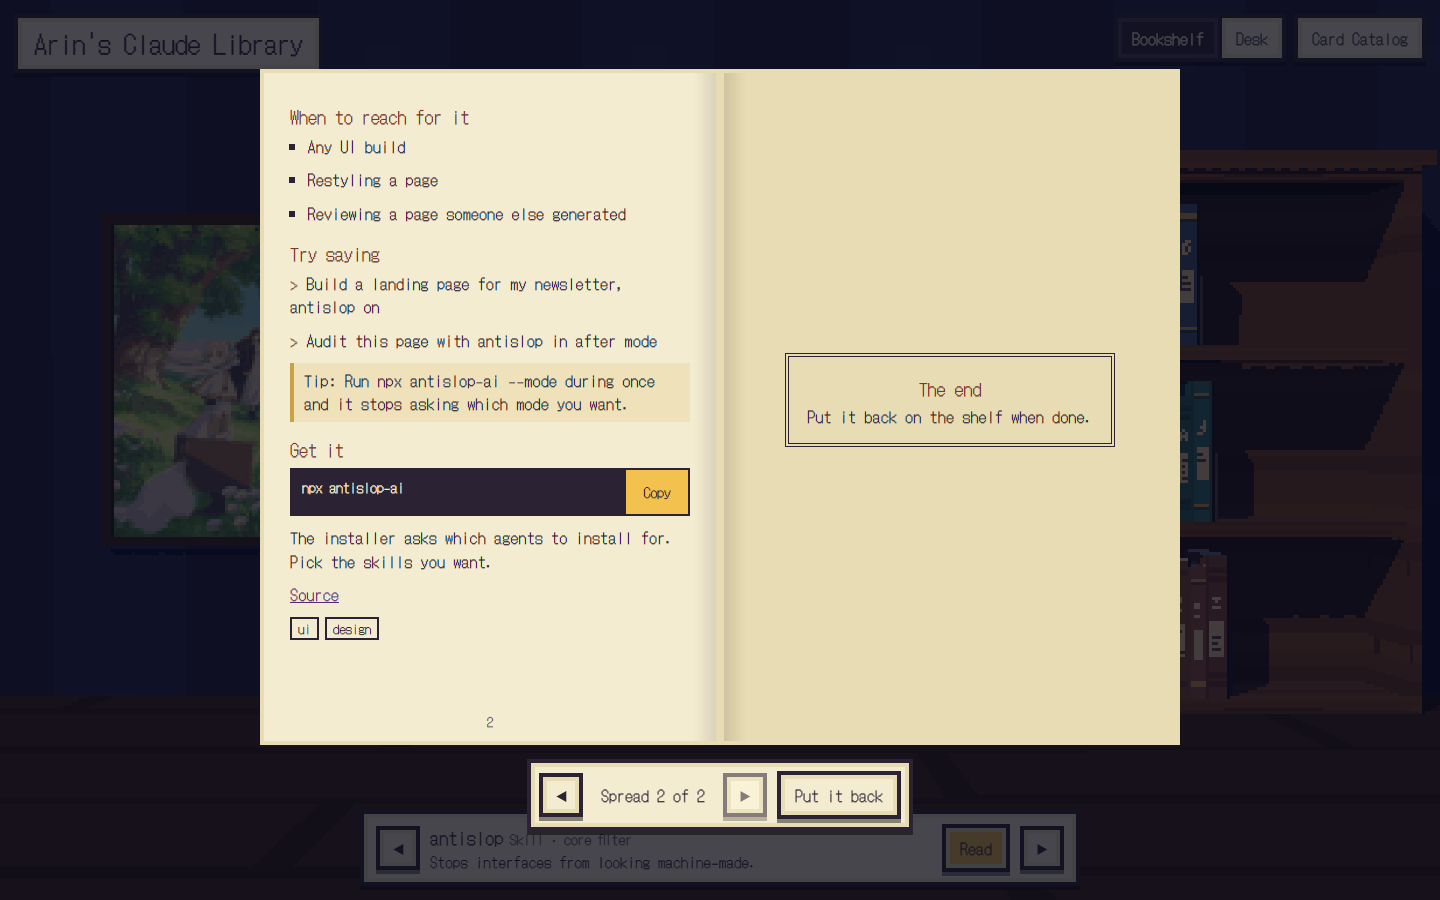
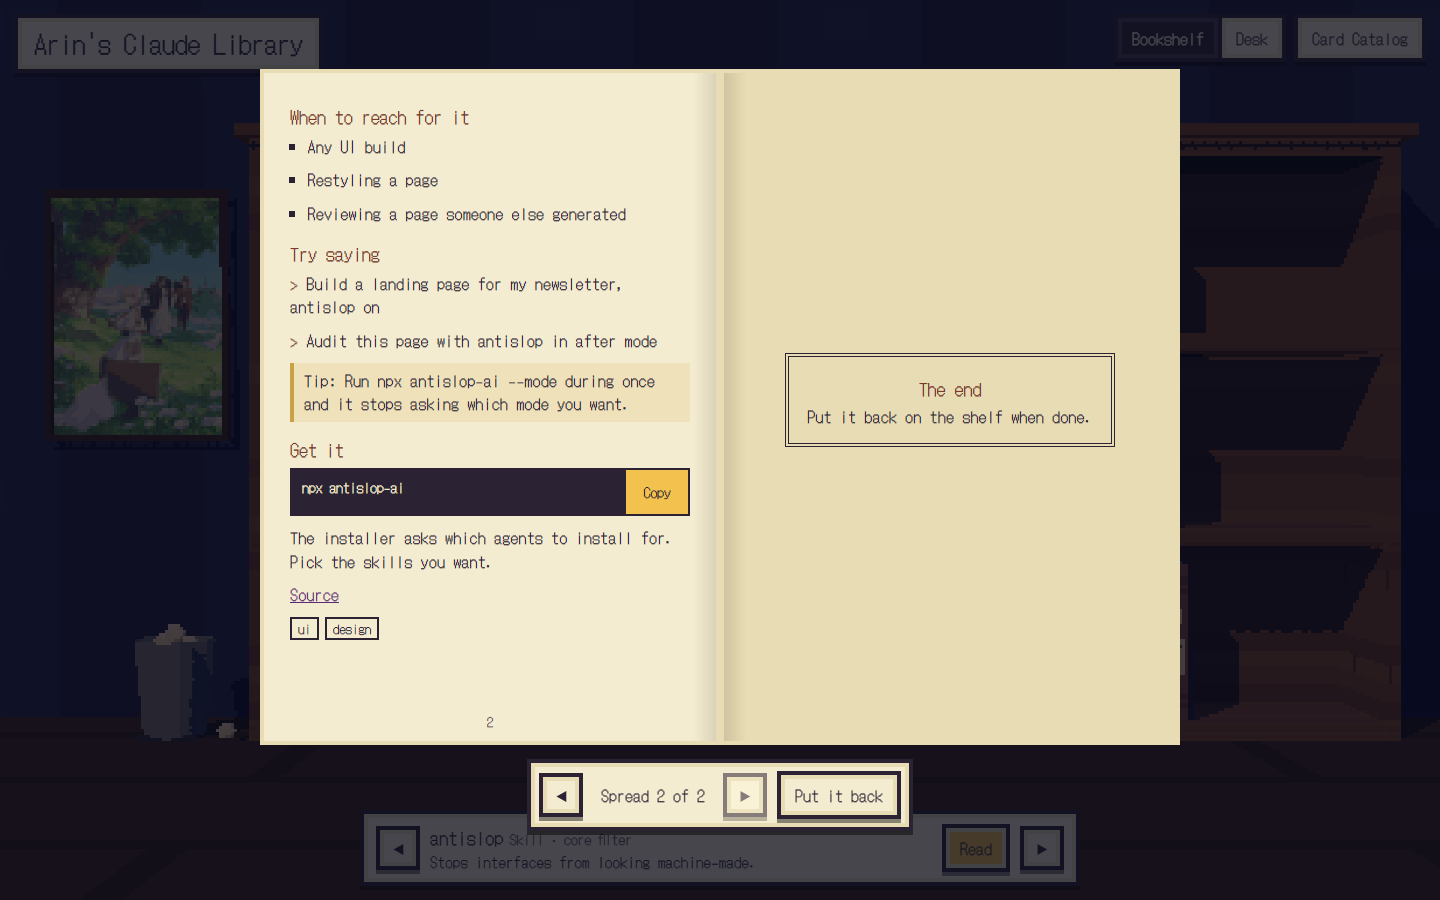
Poster grows to fill the wall; shelf view keeps even margins at every width

diff --git a/app.js b/app.js
@@ -223,7 +223,7 @@ function outline(mesh, w, h, d) {
 function dispose(g) { if (g) { g.traverse((o) => o.geometry && o.geometry.dispose()); scene.remove(g); } }
 
 // A glass bowl with sand, coral, seaweed, bubbles and one clownfish. Purely for the room.
-let fishbowl = null, organizerAt = [0, 0, 0];
+let fishbowl = null, organizerAt = [0, 0, 0], posterGroup = null;
 function buildFishbowl(group, x, z) {
   const R = 0.52, cy = R * 0.92, b = new THREE.Group(); b.position.set(x, topY, z); group.add(b);
   const glassy = (color, opacity) => toon({ color, transparent: true, opacity, depthWrite: false });
@@ -275,11 +275,12 @@ function buildRoom() {
   wall.position.set(caseW / 2, 4, -D / 2 - 0.02);
 
   // Framed poster and a paper bin on the wall left of the case. Wide screens frame them in.
-  const px = -caseW / 2 - 0.45 - POSTER_W / 2, py = Math.min(caseH / 2 - POSTER_H / 2 - 0.1, 0.5), pz = -D / 2 + 0.03;
+  // Built at unit size; fitCamera scales and places it to fill the wall left of the case.
+  posterGroup = new THREE.Group(); g.add(posterGroup);
   const poster = new THREE.Mesh(new THREE.PlaneGeometry(POSTER_W, POSTER_H), toon({ map: posterTex }));
-  poster.position.set(px, py, pz); poster.receiveShadow = true; g.add(poster);
+  poster.receiveShadow = true; posterGroup.add(poster);
   const frame = toon({ color: '#3b2416' });
-  for (const [w, h, x, y] of [[POSTER_W + 0.16, 0.08, 0, POSTER_H / 2 + 0.04], [POSTER_W + 0.16, 0.08, 0, -POSTER_H / 2 - 0.04], [0.08, POSTER_H, -POSTER_W / 2 - 0.04, 0], [0.08, POSTER_H, POSTER_W / 2 + 0.04, 0]]) addBox(g, w, h, 0.06, frame, px + x, py + y, pz + 0.01);
+  for (const [w, h, x, y] of [[POSTER_W + 0.16, 0.08, 0, POSTER_H / 2 + 0.04], [POSTER_W + 0.16, 0.08, 0, -POSTER_H / 2 - 0.04], [0.08, POSTER_H, -POSTER_W / 2 - 0.04, 0], [0.08, POSTER_H, POSTER_W / 2 + 0.04, 0]]) addBox(posterGroup, w, h, 0.06, frame, x, y, 0.01);
   const fy = -caseH / 2, bx = -caseW / 2 - 0.6, bz = 0.25;
   const bin = new THREE.Mesh(new THREE.CylinderGeometry(0.28, 0.22, 0.7, 10, 1, true), toon({ color: '#7d8794', side: THREE.DoubleSide }));
   bin.position.set(bx, fy + 0.35, bz); bin.castShadow = bin.receiveShadow = true; g.add(bin);
@@ -371,11 +372,23 @@ function usable() { return (innerHeight - (innerWidth < 640 ? 190 : 200)) / inne
 function fitCamera() {
   const w = innerWidth, h = innerHeight;
   camera.aspect = w / h; camera.updateProjectionMatrix();
-  // On wide screens the shelf view also frames the poster and bin on the left.
-  shelfX = cols > 1 && camera.aspect >= 1.25 ? -(POSTER_W + 0.9) / 2 : 0;
-  const byW = ((caseW - shelfX * 2) * 1.06) / (2 * FOV_T * camera.aspect);
+  const perUnit = 2 * FOV_T * camera.aspect; // visible width per unit of distance
   const byH = (caseH * 1.04) / (2 * FOV_T * usable());
-  dist = cols === 1 ? byW : Math.max(byW, byH);
+  if (cols === 1) {
+    shelfX = 0; posterGroup.visible = false;
+    dist = (caseW * 1.06) / perUnit;
+  } else {
+    // The case fills the height; the poster grows into whatever wall is left, with equal margins on both sides.
+    const m = 0.35, gap = 0.45, pwMin = 1.3, pwMax = (caseH * 0.68 * POSTER_W) / POSTER_H;
+    dist = byH;
+    let avail = dist * perUnit - caseW - 2 * m - gap;
+    if (avail < pwMin) { avail = pwMin; dist = (caseW + 2 * m + gap + pwMin) / perUnit; }
+    const pw = Math.min(avail, pwMax), s = pw / POSTER_W;
+    const left = caseW / 2 - caseW - gap - pw;
+    posterGroup.visible = true; posterGroup.scale.setScalar(s);
+    posterGroup.position.set(left + pw / 2, caseH / 2 - 0.3 - (POSTER_H * s) / 2, -D / 2 + 0.03);
+    shelfX = (left + caseW / 2) / 2 + 0.12; // the case front sits closer to the camera, so nudge right to even the margins
+  }
   const over = Math.max(0, caseH * 1.04 - 2 * dist * FOV_T * usable());
   yTop = over / 2; yBottom = -over / 2;
   scrollRange = view === 'shelf' && over > 0 ? (over / (2 * dist * FOV_T)) * h * 1.4 : 0;

diff --git a/tools/shoot.py b/tools/shoot.py
@@ -57,7 +57,7 @@ with sync_playwright() as pw:
     p = page_for(b, 1440, 900)
     check(p.locator('#motion-btn').count() == 0, 'there is no motion switch')
     shot(p, 'shelf')
-    p.mouse.move(460, 270)
+    p.mouse.move(710, 260)
     p.wait_for_timeout(500)
     check(p.locator('#read-btn').is_enabled(), 'hovering a spine selects it')
 
